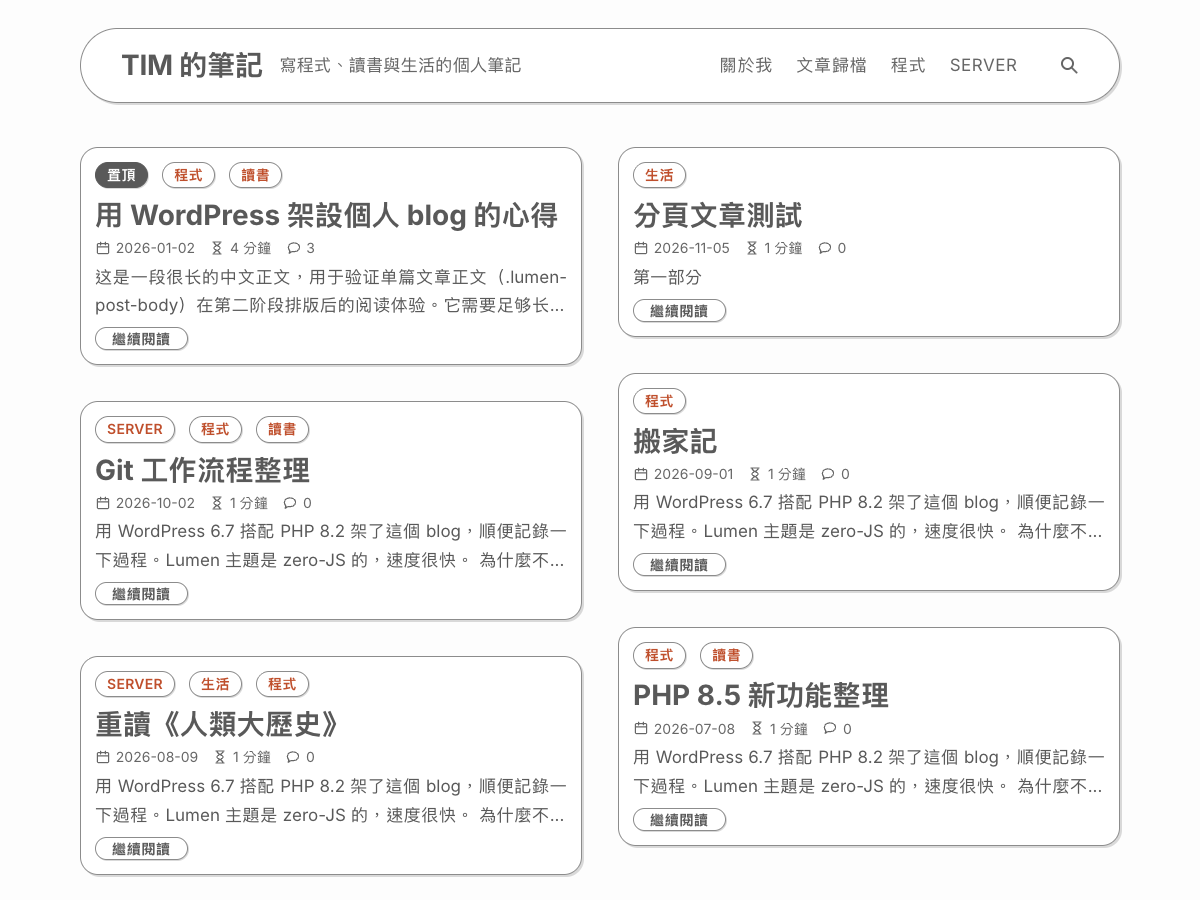
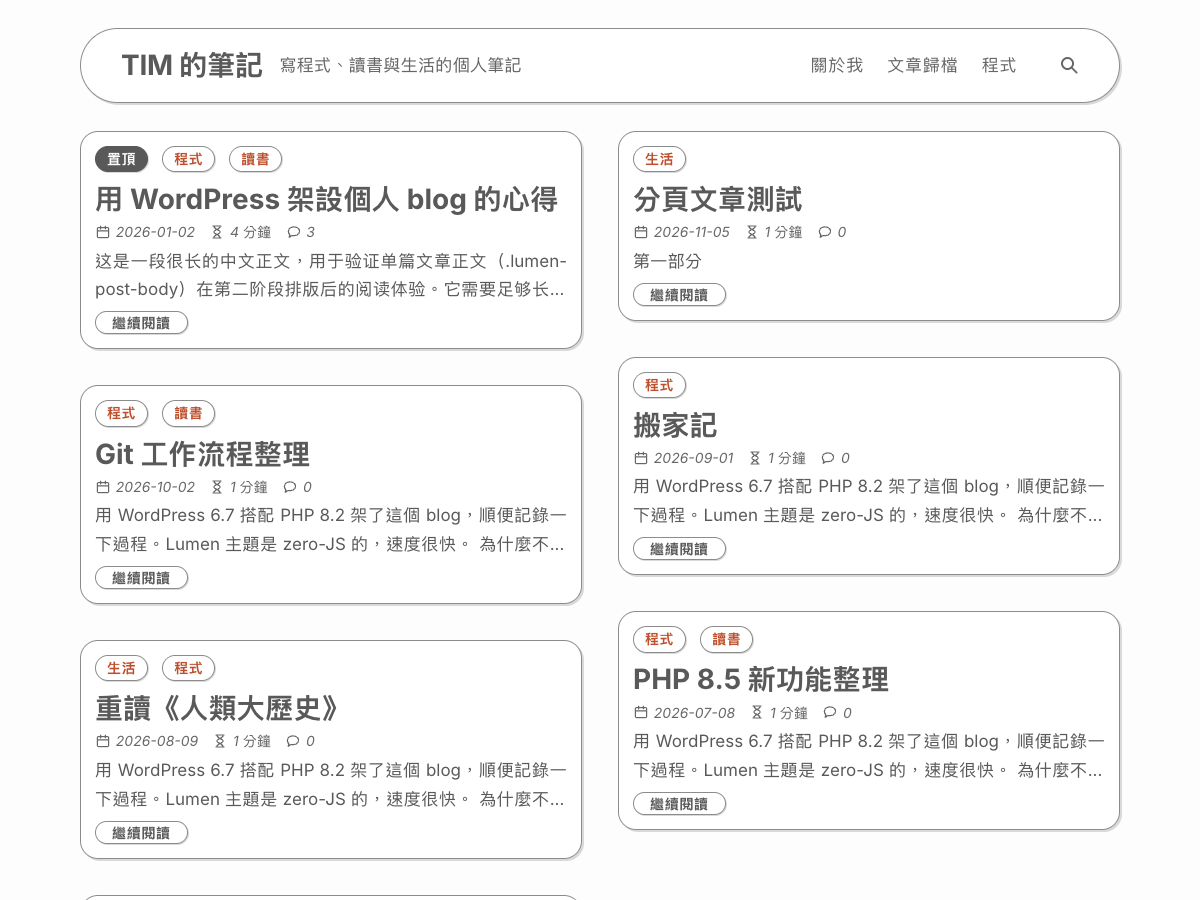
feat(theme): v1.3.4 — italic meta, description-first archive header
- Single post: category pills move below the date row.
- Every page starts 2 x --space (28px) below the header (was 30/44px).
- Date row uses Inter's true italic (new 31 KB Latin subset) with
  font-synthesis-style: none so Chinese stays upright.
- Archive header: the term description leads at --text-xl, above the
  breadcrumb row; the breadcrumb capsule now matches the count pill
  (26.4px, 14px, not bold). Optical spacing re-measured.

diff --git a/lumen/assets/css/main.css b/lumen/assets/css/main.css
@@ -15,13 +15,23 @@
 /* 1. Tokens ---------------------------------------------------------------- */
 
 /* English text: Inter (SIL OFL 1.1, assets/fonts/Inter-LICENSE.txt), trimmed
-   to Latin characters and weights 400–700 (29 KB). unicode-range keeps it off
-   Chinese text, which falls through to the system Chinese font. */
+   to Latin characters and weights 400–700 — upright 29 KB, true italic
+   31 KB (used by the date row). unicode-range keeps it off Chinese text,
+   which falls through to the system Chinese font. */
 @font-face {
 	font-family: "Lumen Latin";
 	src: url("../fonts/InterVariable-latin.woff2") format("woff2");
 	font-weight: 400 700;
 	font-style: normal;
+	font-display: swap;
+	unicode-range: U+0000-00FF, U+0131, U+0152-0153, U+02BB-02BC, U+02C6, U+02DA, U+02DC, U+2000-2025, U+2027-206F, U+2074, U+20AC, U+2122, U+2190-2193, U+2212, U+2215;
+}
+
+@font-face {
+	font-family: "Lumen Latin";
+	src: url("../fonts/InterVariable-Italic-latin.woff2") format("woff2");
+	font-weight: 400 700;
+	font-style: italic;
 	font-display: swap;
 	unicode-range: U+0000-00FF, U+0131, U+0152-0153, U+02BB-02BC, U+02C6, U+02DA, U+02DC, U+2000-2025, U+2027-206F, U+2074, U+20AC, U+2122, U+2190-2193, U+2212, U+2215;
 }
@@ -199,9 +209,10 @@ p {
 
 /* 3. Layout ----------------------------------------------------------------- */
 
+/* Every page starts the same distance below the header: 2 × --space. */
 .lumen-main {
 	flex: 1;
-	padding-block: 2.75rem 4.5rem;
+	padding-block: calc(2 * var(--space)) 4.5rem;
 }
 
 .lumen-main:focus {
@@ -602,8 +613,12 @@ a.lumen-pill--accent:hover {
 	border-color: var(--fg);
 }
 
-/* Icon + text pairs: date, reading time, comments. */
+/* Icon + text pairs: date, reading time, comments. English and digits use
+   Inter's true italic; synthesis is off so Chinese (e.g. 分鐘) stays upright
+   instead of being slanted artificially. */
 .lumen-post-meta {
+	font-style: italic;
+	font-synthesis-style: none;
 	display: flex;
 	flex-wrap: wrap;
 	align-items: center;
@@ -780,7 +795,6 @@ a.lumen-stat:hover {
 	display: grid;
 	justify-items: start;
 	gap: var(--space);
-	margin-top: calc(-1 * var(--space));
 	margin-bottom: calc(2 * var(--space));
 }
 
@@ -791,17 +805,19 @@ a.lumen-stat:hover {
 	gap: var(--space);
 }
 
-/* Breadcrumbs: an outlined capsule like the buttons — house icon for
-   Home, light chevrons, the current place in bold accent red. */
+/* Breadcrumbs: an outlined capsule matching the count pill beside it —
+   house icon for Home, light chevrons, the current place in accent red. */
 .lumen-breadcrumbs ol {
 	display: flex;
 	flex-wrap: wrap;
 	align-items: center;
 	margin: 0;
-	padding: 0.4rem 1.1rem;
+	/* Same box as .lumen-pill (the post count beside it): same height,
+	   padding and font size. */
+	padding: 1px 11px;
 	list-style: none;
-	font-size: var(--text-base);
-	line-height: 1.5;
+	font-size: var(--text-sm);
+	line-height: 1.6;
 	color: var(--muted);
 	background: var(--card);
 	border: 1px solid var(--line);
@@ -816,7 +832,7 @@ a.lumen-stat:hover {
 
 .lumen-breadcrumbs li + li::before {
 	content: "›";
-	margin-inline: 0.6rem;
+	margin-inline: 0.45rem;
 	font-size: 1.15em;
 	line-height: 1;
 	color: var(--line);
@@ -825,7 +841,7 @@ a.lumen-stat:hover {
 .lumen-breadcrumbs a {
 	display: inline-flex;
 	align-items: center;
-	gap: 0.4rem;
+	gap: 0.3rem;
 	color: var(--muted);
 }
 
@@ -834,17 +850,32 @@ a.lumen-stat:hover {
 }
 
 .lumen-breadcrumbs .lumen-icon {
-	width: 1.05rem;
-	height: 1.05rem;
+	width: 0.95rem;
+	height: 0.95rem;
 }
 
 .lumen-breadcrumbs [aria-current="page"] {
-	font-weight: 600;
 	color: var(--accent);
 }
 
+/* The category / tag description leads the page: two steps up the type
+   scale (body 17px → 28px), above the breadcrumb row. */
 .lumen-page-description {
-	color: var(--fg-soft);
+	font-size: var(--text-xl);
+	line-height: 1.45;
+	color: var(--fg);
+	text-wrap: pretty;
+}
+
+.lumen-page-description > * {
+	margin: 0;
+}
+
+.lumen-page-description {
+	text-box: trim-both text;
+	/* ~4px of empty text box above and below the glyphs at this size
+	   (measured); pull it in so the visible gaps are 28px / --space. */
+	margin-block: -0.14em;
 }
 
 .lumen-page-description p:last-child {
@@ -953,6 +984,9 @@ a.lumen-stat:hover {
 
 .lumen-entry-header > .lumen-pills {
 	justify-self: start;
+	/* The date row's text box leaves ~4px of empty space under the digits;
+	   pull the pills up so the visible gap is --space (measured). */
+	margin-top: -4px;
 }
 
 .lumen-entry-title,

diff --git a/lumen/style.css b/lumen/style.css
@@ -4,7 +4,7 @@ Theme URI: https://github.com/wwintj/lumen
 Author: Lumen Team
 Author URI: https://github.com/wwintj
 Description: A personal blog theme for Chinese and English writing: outlined cards in a two-column masonry, a one-line capsule header, one accent colour, automatic dark mode, reading time, and a year-by-year archive page. Zero JavaScript; English text uses a bundled 29 KB subset of Inter (SIL OFL 1.1).
-Version: 1.3.3
+Version: 1.3.4
 Requires at least: 6.3
 Tested up to: 7.1
 Requires PHP: 8.2

diff --git a/lumen/template-parts/archive-header.php b/lumen/template-parts/archive-header.php
@@ -15,11 +15,11 @@ $lumen_description = ( $lumen_object instanceof WP_Term ) ? $lumen_object->descr
 <header class="lumen-page-header">
 	<?php // The breadcrumb names the page visually; the H1 stays for structure. ?>
 	<h1 class="screen-reader-text"><?php echo esc_html( lumen_get_archive_title() ); ?></h1>
+	<?php if ( '' !== trim( (string) $lumen_description ) ) : ?>
+		<div class="lumen-page-description"><?php echo wp_kses_post( wpautop( $lumen_description ) ); ?></div>
+	<?php endif; ?>
 	<div class="lumen-page-heading">
 		<?php lumen_the_breadcrumbs(); ?>
 		<span class="lumen-pill"><?php echo esc_html( lumen_posts_count_label( $GLOBALS['wp_query']->found_posts ) ); ?></span>
 	</div>
-	<?php if ( '' !== trim( (string) $lumen_description ) ) : ?>
-		<div class="lumen-page-description"><?php echo wp_kses_post( wpautop( $lumen_description ) ); ?></div>
-	<?php endif; ?>
 </header>

diff --git a/lumen/single.php b/lumen/single.php
@@ -16,11 +16,11 @@ while ( have_posts() ) :
 	?>
 	<article id="post-<?php the_ID(); ?>" <?php post_class( 'lumen-column lumen-entry' ); ?>>
 		<header class="lumen-entry-header">
+			<h1 class="lumen-entry-title"><?php the_title(); ?></h1>
+			<?php lumen_the_post_meta(); ?>
 			<?php if ( has_category() ) : ?>
 				<div class="lumen-pills"><?php lumen_the_category_pills(); ?></div>
 			<?php endif; ?>
-			<h1 class="lumen-entry-title"><?php the_title(); ?></h1>
-			<?php lumen_the_post_meta(); ?>
 		</header>
 
 		<?php if ( has_post_thumbnail() ) : ?>

diff --git a/lumen/functions.php b/lumen/functions.php
@@ -11,7 +11,7 @@ if ( ! defined( 'ABSPATH' ) ) {
 	exit;
 }
 
-define( 'LUMEN_VERSION', '1.3.3' );
+define( 'LUMEN_VERSION', '1.3.4' );
 define( 'LUMEN_DIR', get_template_directory() );
 define( 'LUMEN_URI', get_template_directory_uri() );
 

diff --git a/README.md b/README.md
@@ -1,7 +1,7 @@
 # Lumen
 
 為中文寫作打造的 WordPress 個人部落格佈景主題。安靜、以文字為主，
-**零 JavaScript、不連外部字型服務**：整個佈景主題只有一個 CSS 檔和一個 29 KB 的英文字型檔。
+**零 JavaScript、不連外部字型服務**：整個佈景主題只有一個 CSS 檔和兩個共約 60 KB 的英文字型檔。
 
 | 首頁（淺色） | 文章頁（深色） | 手機 |
 | --- | --- | --- |
@@ -20,7 +20,7 @@
 - 跟隨系統的自動深色模式，不需要切換按鈕。
 
 **閱讀**
-- 英文使用內建的 Inter 字型（只含英文字元，29 KB，隨主題提供、不連外部字型服務），中文使用系統字體（Mac 蘋方、Windows 微軟正黑體）；全站一套字級（14／17／22／28px 與頁面標題），中英混排自動留白、標點自動擠壓。
+- 英文使用內建的 Inter 字型（只含英文字元，正體 29 KB、日期列用的真斜體 31 KB，隨主題提供、不連外部字型服務），中文使用系統字體（Mac 蘋方、Windows 微軟正黑體）；全站一套字級（14／17／22／28px 與頁面標題），中英混排自動留白、標點自動擠壓。
 - 文章頁有閱讀時間、文末標籤、上一篇／下一篇按鈕（附標題）、`<!--nextpage-->` 分頁與特色圖片。
 
 **找文章**

diff --git a/CHANGELOG.md b/CHANGELOG.md
@@ -2,6 +2,17 @@
 
 正式發布版本、ZIP 與校驗碼以 [GitHub Releases](https://github.com/wwintj/lumen/releases) 為準。
 
+## 1.3.4
+
+- **文章頁**：分類膠囊移到日期列下方（標題 → 日期列 → 分類），可見間距約 14px。
+- **頁首到內容統一 28px**：首頁、文章、頁面、歸檔、分類、搜尋、404 七種頁面一致（原本 30px 與 44px 不一）。
+- **日期列真斜體**：日期、閱讀時間、留言數的英文與數字改用 Inter 真斜體（另一個 31 KB 子集字型檔）；
+  關閉瀏覽器的合成斜體，中文（如「分鐘」）維持直體不變形。
+- **分類／標籤頁頂部**：
+  - 簡介移到麵包屑上方，字級放大兩級（17px → 28px，手機 24px），改用正文顏色。
+  - 麵包屑膠囊縮小為與篇數膠囊相同（26.4px 高、14px 字），目前位置維持強調色但不加粗。
+  - 可見間距：頁首 → 簡介 28px、簡介 → 麵包屑 15px、麵包屑 → 卡片 28px。
+
 ## 1.3.3
 
 - **按鈕更扁**：READ MORE、BACK TO HOME、上一篇／下一篇按鈕的上下內距移除，高度由 34px 變為 23px（原來的 2/3）。

diff --git a/NOTICE.md b/NOTICE.md
@@ -19,9 +19,9 @@ Lumen 佈景主題的程式碼、樣式、翻譯檔與文件採用 **GPL-2.0-or-
 
 ## 第三方
 
-**Inter 字型**（英文字元使用）：`lumen/assets/fonts/InterVariable-latin.woff2`
-是 [Inter 4.1](https://github.com/rsms/inter)（Copyright © 2016 The Inter Project Authors）的子集版本，
-只保留拉丁字元與字重 400–700。Inter 以 **SIL Open Font License 1.1** 授權，未宣告保留字型名稱；
+**Inter 字型**（英文字元使用）：`lumen/assets/fonts/InterVariable-latin.woff2`（正體）與
+`InterVariable-Italic-latin.woff2`（斜體）是 [Inter 4.1](https://github.com/rsms/inter)
+（Copyright © 2016 The Inter Project Authors）的子集版本，只保留拉丁字元與字重 400–700。Inter 以 **SIL Open Font License 1.1** 授權，未宣告保留字型名稱；
 授權全文隨附於 `lumen/assets/fonts/Inter-LICENSE.txt`，並隨佈景主題 ZIP 一起散布。
 
 除此之外，佈景主題不包含第三方程式庫或圖示檔；圖示為佈景主題內建的 inline SVG。
